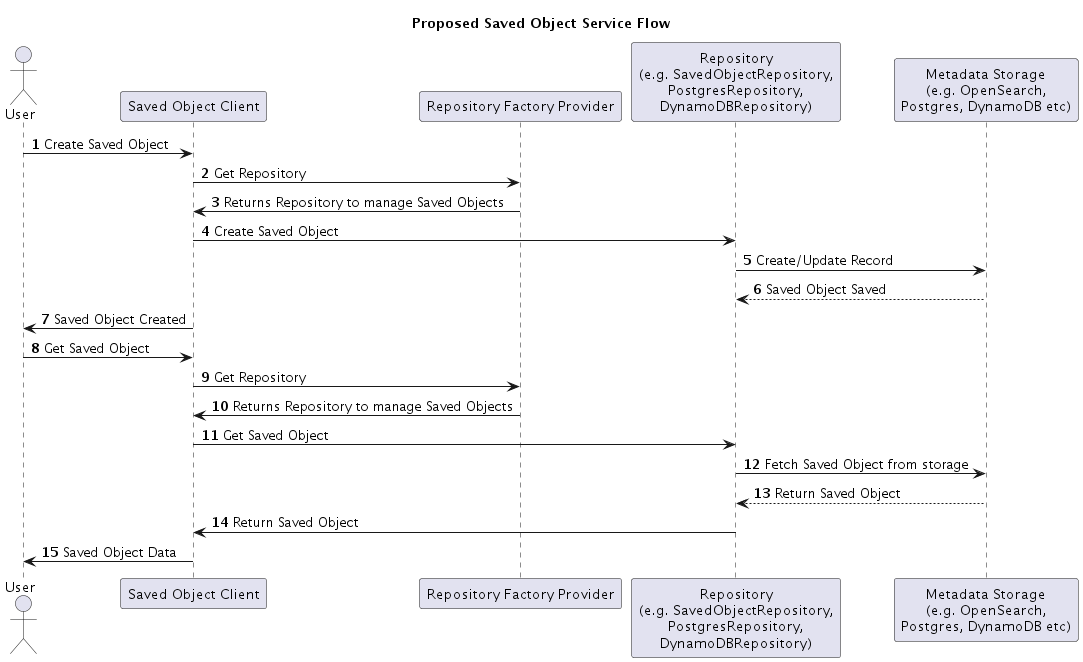
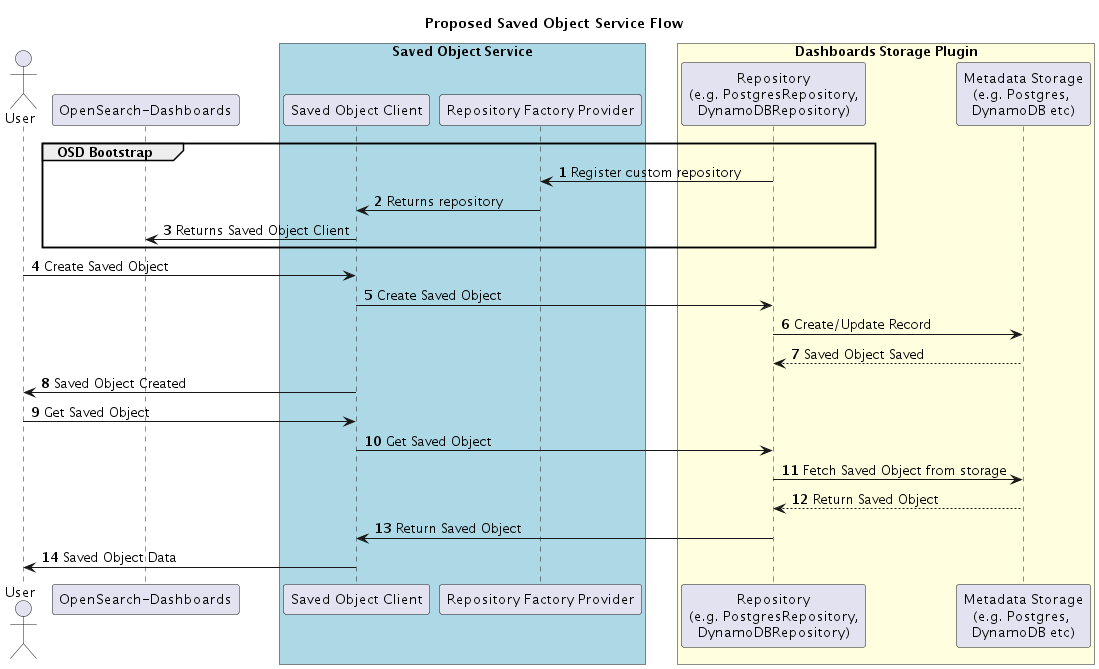
Change Tittle and modify UML diagram

diff --git a/docs/saved_objects/saved_object_repository_factory_design.md b/docs/saved_objects/saved_object_repository_factory_design.md
@@ -1,4 +1,4 @@
-# New Saved Object Service Interface for Custom Repository
+# Proposed Saved Object Service Interface for Custom Repository
 
 ## Introduction
 
